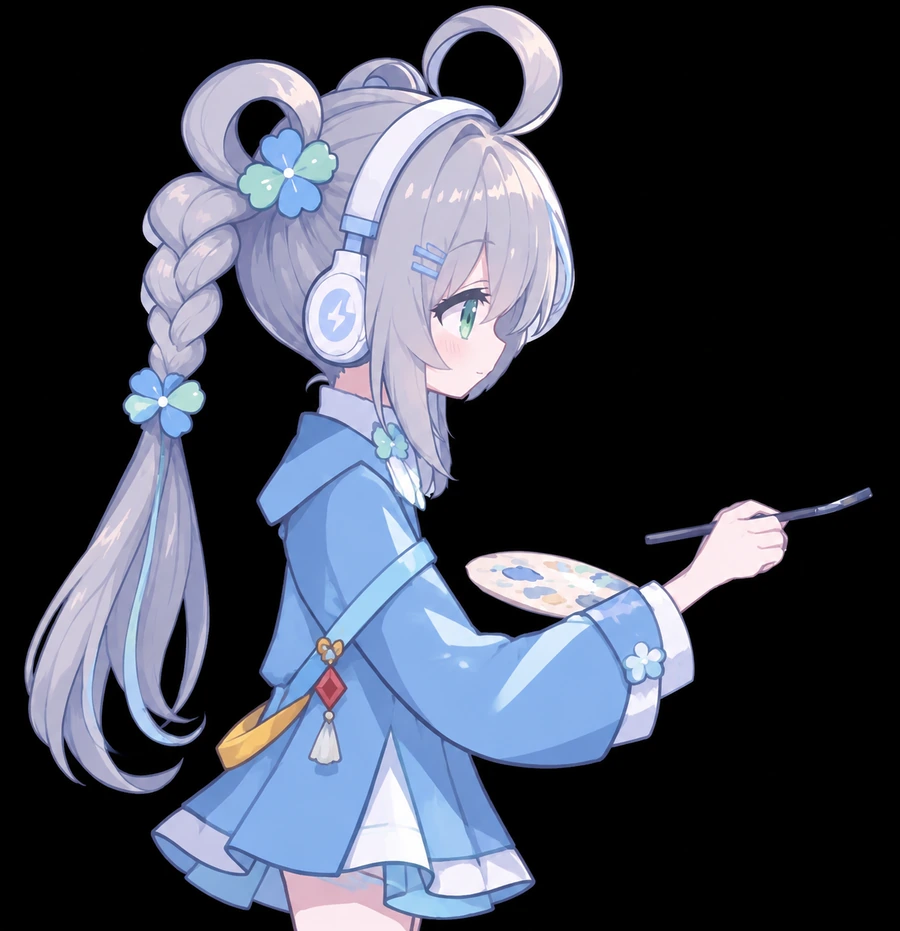
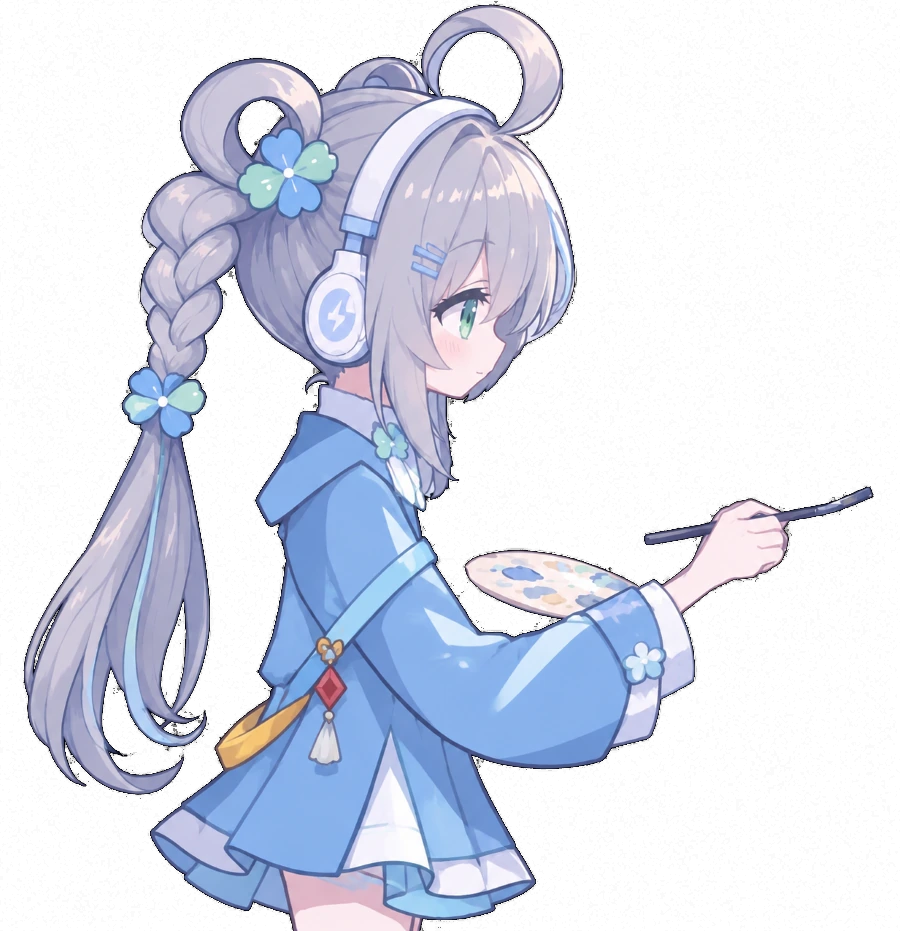
Replace paint cover with latest transparent artwork and mirror

diff --git a/src/image-sources.js b/src/image-sources.js
@@ -1,6 +1,6 @@
 const host = 'https://bee-reg-ab.imagency.cn/mr/202611/10/';
 export const IMAGE_MIRRORS = Object.freeze({
-  'tianyi-paint': `${host}6af2b4229a3d6.png`,
+  'tianyi-paint': `${host}6af2bcad98ea7.png`,
   landscape: `${host}6af2ae0fdddb6.png`,
   'tiandian-pink-lemon': `${host}6af2ae1252832.png`,
   'tianyi-run': `${host}6af2ae15dc91d.png`,
